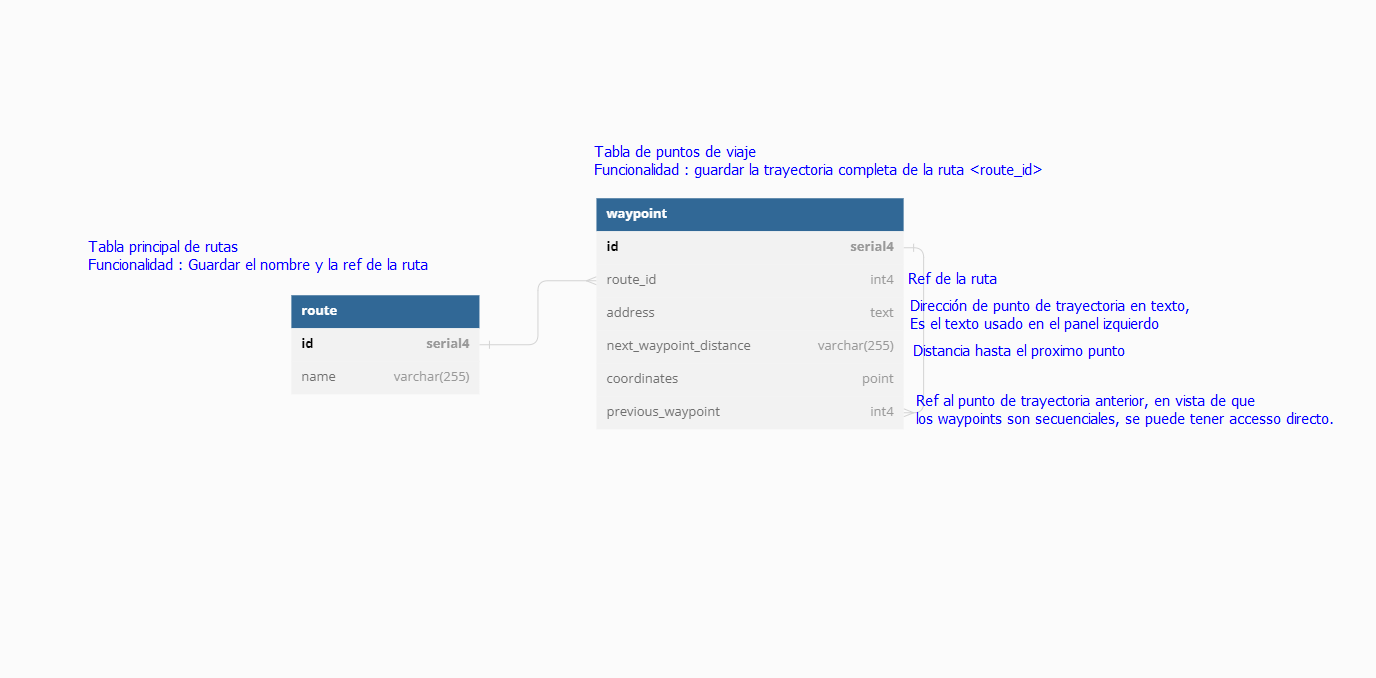
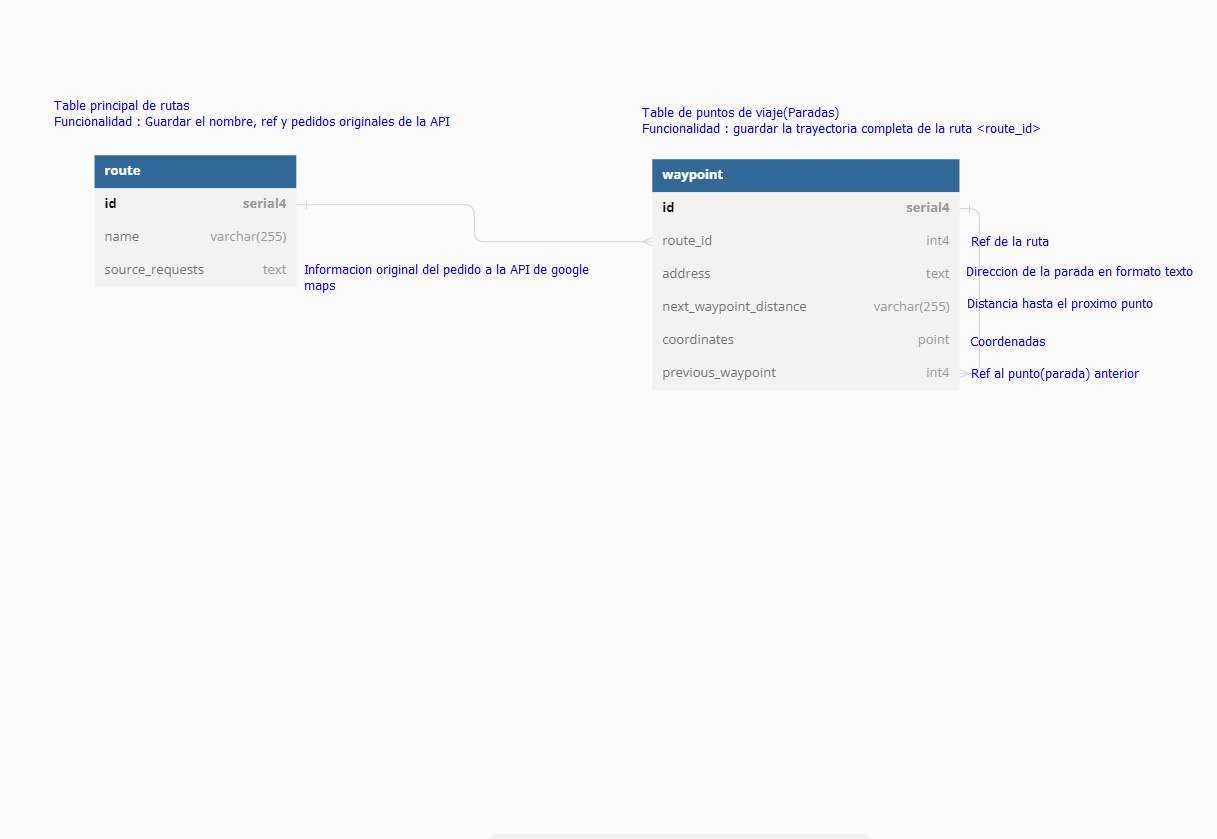
Update documentation

diff --git a/web/libraries/google-maps/google-maps.js b/web/libraries/google-maps/google-maps.js
@@ -20,9 +20,7 @@ class GoogleMap {
             center: { lat: 40.416775, lng: -3.703339 },
         });
         this.routeManager = new google.maps.DirectionsService();
-        if (markersElement) {
-            this.markersElement = markersElement;
-        }
+        this.markersElement = markersElement;
         this.initMarkerManager();
     }
     getData() {
@@ -62,6 +60,12 @@ class GoogleMap {
     emptyMap(){
         this.routeDrawer.setDirections({});
     }
+    /**
+     * Function to chunk waypoints
+     * Basically we do this to split the waypoints and do the requests by chunks
+     * @param {*} sourceWayPoints 
+     * @returns array
+     */
     chunkWayPoints(sourceWayPoints){
         let wayPoints = [];
         let index = -1;
@@ -85,25 +89,30 @@ class GoogleMap {
             object.setMap(null);
         });
         const wayPoints = Object.assign([], this.route.wayPoints);
+        // Clean the current data and setup if the data is given
         this.route.wayPoints = [];
         this.markerDirections = [];
         this.route.requests = existingDirections;
+        // Keep the renderers to get the markers
         const renderers = [];
-        console.log(wayPoints, this.chunkWayPoints(wayPoints));
         this.chunkWayPoints(wayPoints).reduce(async (previous, chunkWayPoints, index) => {
             const previousRequest = await previous;
             const startPoint = previousRequest.request.destination !== undefined ? previousRequest.request.destination.location : chunkWayPoints[0];
             const endPoint = chunkWayPoints[chunkWayPoints.length - 1];
-            const wayPoints = chunkWayPoints
+            const stopWayPoints = chunkWayPoints
                 .filter((marker) => marker !== startPoint && marker !== endPoint)
                 .map(marker => { return { location : marker } });
             let directions = null;
             const renderer = new google.maps.DirectionsRenderer({
                 draggable: true,
-                map : this.map
+                map : this.map,
+                markerOptions : {
+                    visible : false
+                }
             });
             renderers.push(renderer);
             this.route.objects.push(renderer);
+            // Check the cache on database
             if (this.route.requests[index] !== undefined) {
                 directions = this.route.requests[index];
             } else {
@@ -112,7 +121,7 @@ class GoogleMap {
                     destination : endPoint,
                     travelMode: google.maps.TravelMode.DRIVING,
                     provideRouteAlternatives: true,
-                    waypoints : wayPoints
+                    waypoints : stopWayPoints
                 });
                 this.route.requests.push(directions);
             }
@@ -128,6 +137,8 @@ class GoogleMap {
             request : {}
         })).then(() => {
             let markerIndex = 1;
+            // Get and update the markers
+            // We do it of this way because the marker is rendered more accurately from the renderer itself
             renderers.forEach((renderer) => {
                 // Because there is no current way to check if the markers are ready
                 // We manually check when the markers are loaded
@@ -137,11 +148,12 @@ class GoogleMap {
                         clearInterval(markersChecker);
                         renderer.h.markers.forEach((marker, index) => {
                             marker.setIcon(null);
-                            //When this condition is fullfilled means that is a segment from another request
+                            //When this condition is fullfilled means that is a segment from another request(route)
                             if(markerIndex > 1 && index == 0){
                                 marker.setVisible(false);
                                 return;
                             }
+                            marker.setVisible(true);
                             marker.setLabel({
                                 text : `${markerIndex++}`,
                                 color : 'white'
@@ -151,11 +163,19 @@ class GoogleMap {
                 }, 0);
             });
             this.renderMarkers();
-        })
+        }).catch(() => {
+            alert("Ruta invalida!");
+            // Filter the new data to rollback the information
+            this.route.wayPoints = wayPoints.filter((wayPoint) => !this.isLocationObject(wayPoint));
+            this.generateRoute();
+        });
     }
     toJSON(element){
-        if (element.constructor.name !== 'Object') return element.toJSON();
+        if (this.isLocationObject(element)) return element.toJSON();
         return element;
+    }
+    isLocationObject(element){
+        return element.constructor.name !== 'Object' && typeof element.lat == 'function' && typeof element.lng == 'function';
     }
    /**
     * We handle directions and transform it into a valid waypoints
@@ -181,6 +201,7 @@ class GoogleMap {
      * Function to render markers from left panel
      */
     renderMarkers(){
+        if (!this.markersElement)  return;
         $(this.markersElement).empty();
         const directions = this.getRouteDirections();
         const renderedMarkers = [];
@@ -199,7 +220,6 @@ class GoogleMap {
             deleteButton
                 .addClass("btn btn-danger btn-sm remove-marker")
                 .on("click", () => {
-                    console.log(this.route.wayPoints, route.location);
                     this.route.wayPoints = directions.filter((wayPoint) => {
                         return wayPoint.location.lat != route.location.lat || wayPoint.location.lng != route.location.lng;
                     }).map(wayPoint => wayPoint.location);

diff --git a/README.md b/README.md
@@ -35,8 +35,9 @@ Para instrucciones de instalación se puede consultar el link siguiente : [Docke
 ***Cambios Relevantes V2***
 1. Hubo una reformulación en el codigo para añadir la posibilidad de agregar mas de 26 paradas
 - La API Google maps no permite crear rutas con mas de 24 paradas (24 + 2 [origen y destino])
-- Para sobrepasar este problema se hacen varios pedidos y se juntan en el mapa
-2. Simplificado la manera de renderizar los marcadores
-3. Corregido el delete de un marcador
-4. Para disminuir la cantidad de pedidos se guarda en la base de datos el pedido original (comprimido)
+- Para sobrepasar este problema se crean "chunks" de 26 paradas y hacemos 1 pedido por cada chunk, posteriormente se junta en el mapa siendo que el ultimo punto de cada "chunk" es el origen de cada bloque posterior
+2. Simplificacion de la manera de renderizar los marcadores
+3. Corregido el delete de los marcadores
+4. Para disminuir la cantidad de pedidos se guarda en la base de datos el pedido original
+- La información es posteriormente comprimida para disminuir el uso de memoria durante el guardado y espacio en la db
 - En nuestro caso es un array de pedidos para permitir varias rutas de +26 paradas
